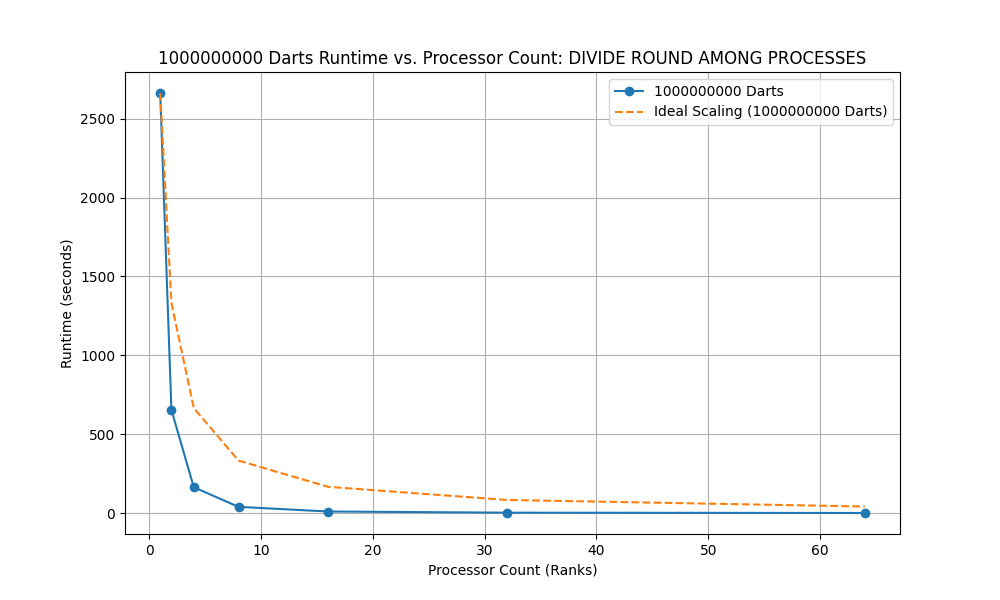
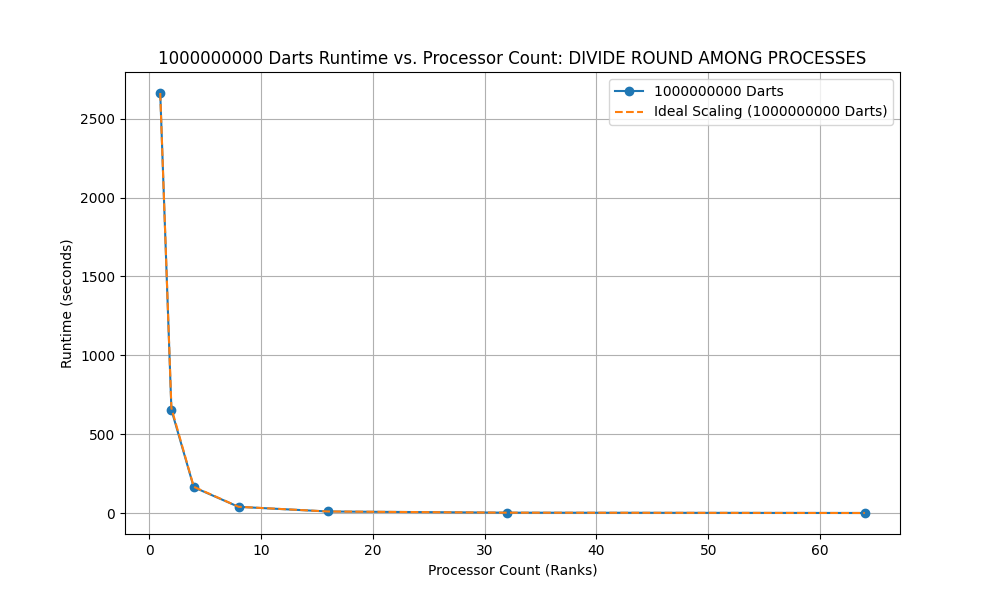
Update Part 4, Q6

diff --git a/plot_mpi_charts.py b/plot_mpi_charts.py
@@ -6,6 +6,7 @@ import numpy as np
 FILENAME = "data_readme_part4_q4.csv"
 SAME_ROUND = "SAME ROUND FOR EACH PROCESS"
 DIVIDE_ROUND = "DIVIDE ROUND AMONG PROCESSES"
+DEFAULT_ROUNDS = 100
 TRUE_PI = 3.141592653589793
 df = pd.read_csv(FILENAME)
 
@@ -40,12 +41,29 @@ def plot_runtime_versus_processor_count(run_type, total_darts):
     df_run_type_darts = df[(df['run_type'] == run_type) & (df['total_darts'] == total_darts)]
     
     plt.plot(df_run_type_darts['ranks'], df_run_type_darts['time_taken'], label=f"{total_darts} Darts", marker='o')
-
-    actual_runtimes = df_run_type_darts.groupby('total_darts')['time_taken'].sum().values
     ideal_scaling_line = df_run_type_darts['time_taken'].iloc[0] / df_run_type_darts['ranks']
-    ideal_runtimes = ideal_scaling_line.sum()
-    efficiency = calculate_scaling_efficiency(actual_runtimes, ideal_runtimes)
-    print(f"Run Type: {run_type}, Total Darts: {total_darts}, Overall Efficiency: {efficiency[0]:.2f}%")
+    speedup = df_run_type_darts['time_taken'].iloc[0] / df_run_type_darts['time_taken']
+    if run_type == DIVIDE_ROUND:
+        rounds_per_task_factor = DEFAULT_ROUNDS /df_run_type_darts['rounds_per_task']
+        ideal_scaling_line = ideal_scaling_line / rounds_per_task_factor
+        speedup = df_run_type_darts['time_taken'].iloc[0] / df_run_type_darts['time_taken']
+        speedup = speedup / rounds_per_task_factor
+        efficiency = (speedup / df_run_type_darts['ranks'])
+    else:
+        efficiency = speedup / df_run_type_darts['ranks']
+    
+    # print("ACTUAL")
+    # print(df_run_type_darts['time_taken'])
+    # print("IDEAL")
+    # print(ideal_scaling_line)
+    # print("SPEEDUP")
+    # print(speedup)
+    # print("EFFICIENCY")
+    # print(efficiency)
+
+    overall_efficiency = efficiency.sum() / df_run_type_darts['ranks'].count()
+    rounded_efficiency = round(overall_efficiency, 3)
+    print(f"Run Type: {run_type}, Total Darts: {total_darts}, Overall Efficiency: {rounded_efficiency}")
 
     plt.plot(df_run_type_darts['ranks'], ideal_scaling_line, '--', label=f"Ideal Scaling ({total_darts} Darts)")
 
@@ -54,7 +72,7 @@ def plot_runtime_versus_processor_count(run_type, total_darts):
     plt.ylabel("Runtime (seconds)")
     plt.legend()
     plt.grid(True)
-    if run_type == "SAME ROUND FOR EACH PROCESS":
+    if run_type == SAME_ROUND:
         plt.savefig('plots/pi_runtime_versus_processor_count_' + str(total_darts) + '_darts_same_round.png')
     else:
         plt.savefig('plots/pi_runtime_versus_processor_count_' + str(total_darts) + '_darts_divided_round.png')
@@ -77,20 +95,14 @@ def print_pi_convergence_rate_for_darts_used(run_type):
         convergence_rate = compute_convergence_rate(x, y)
         print(f"Processor Count (Ranks): {name}, Convergence Rate: {convergence_rate}")
 
-
-def calculate_scaling_efficiency(actual_runtimes, ideal_runtimes):
-    efficiencies = (ideal_runtimes / actual_runtimes) * 100
-    return efficiencies
-
 if __name__ == "__main__":
-    # plot_pi_error_for_darts_used(SAME_ROUND)
-    # plot_pi_error_for_darts_used(DIVIDE_ROUND)
-    # print_pi_convergence_rate_for_darts_used(SAME_ROUND)
-    # print_pi_convergence_rate_for_darts_used(DIVIDE_ROUND)
+    plot_pi_error_for_darts_used(SAME_ROUND)
+    plot_pi_error_for_darts_used(DIVIDE_ROUND)
+    print_pi_convergence_rate_for_darts_used(SAME_ROUND)
+    print_pi_convergence_rate_for_darts_used(DIVIDE_ROUND)
 
     dart_counts = df['total_darts'].unique()
     run_types = df['run_type'].unique()
-
     for run_type in run_types:
         for total_darts in dart_counts:
             plot_runtime_versus_processor_count(run_type, total_darts)

diff --git a/README.md b/README.md
@@ -334,30 +334,37 @@ Pi is the ratio of a circle's circumference to its diameter. As such, the value 
     *1E9 Darts*
     ![Run-time Vs. Processor Count - 1E9 Darts - Divided Rounds for Each Process](https://github.com/cmse822/project-2-pi-by-mpi-team-6/blob/main/plots/pi_runtime_versus_processor_count_1000000000_darts_divided_round.png)
 
-    And here are the calculated parallel scaling efficiencies by dart count. Since it specifies only calculating by dart count, I sum the actual runtimes and ideal runtimes for each processor and then do the following equation:
+    Since it specifies only calculating by dart count, I get the average efficiency across all ranks. Here are the equations used:
 
-    $Efficiency = \frac{Actual Runtime}{Ideal Runtime} \times 100$
+    $Efficiency = \frac{S_p}{p}$
+
+    Where $p$ is the number of ranks and $S_p$ is speedup, calculated as:
+
+    $Speedup = \frac{T_1}{T_p}$
+
+    Where $T_1$ is the serial runtime result and $T_p$ is the runtime result when running on $p$ ranks
 
     For each dart count, here is the resulting efficiencies:
+
     **SAME ROUNDS PER PROCESS**
-    | Dart Count | Efficiencies (%) |
+    | Dart Count | Efficiencies     |
     |------------|------------------|
-    |    1E3     |      32.47%      |
-    |    1E6     |      94.84%      |
-    |    1E9     |     100.12%      |
+    |    1E3     |      0.494       |
+    |    1E6     |      0.788       |
+    |    1E9     |      0.988       |
 
     **DIVIDED ROUNDS PER PROCESS**
-    | Dart Count | Efficiencies (%) |
+    | Dart Count | Efficiencies     |
     |------------|------------------|
-    |    1E3     |     118.55%%     |
-    |    1E6     |     147.81%      |
-    |    1E9     |     149.54%      |
+    |    1E3     |     0.505        |
+    |    1E6     |     0.858        |
+    |    1E9     |     0.984        |
 
-    The parallel performance does vary with dart count. The efficiency is supposed to tell us how well the code scales as the number of darts increase. And we can see that in this case here, where the efficiency increases as dart count goes up.
+    The parallel performance does vary with dart count. The efficiency is supposed to tell us how effectively the available cores are utilized in parallel computing to solve a problem. In this case here, the efficiency increases as dart count goes up. In other words, the parallel performance does vary with dart count. This could be because the larger number of cores used could help with scalability and utilization of resources.
 
 7. Going further. Try running your code on different node types on HPCC with varied core counts. In particular, try to ensure that your runs utilize multiple nodes so that the communication network is used. Do you see a change in the communication cost when the job is run on more than one node?
 
-    Yes, when running across different node types there is some latency or communication overhead that effects the performance of the program as I noticed an increase in the runtime.
+    Yes, when running across different node types there is some latency or communication overhead that effects the performance of the program as I noticed an increase in the runtime. This hurts efficiency
 
 ## What to turn-in
 
